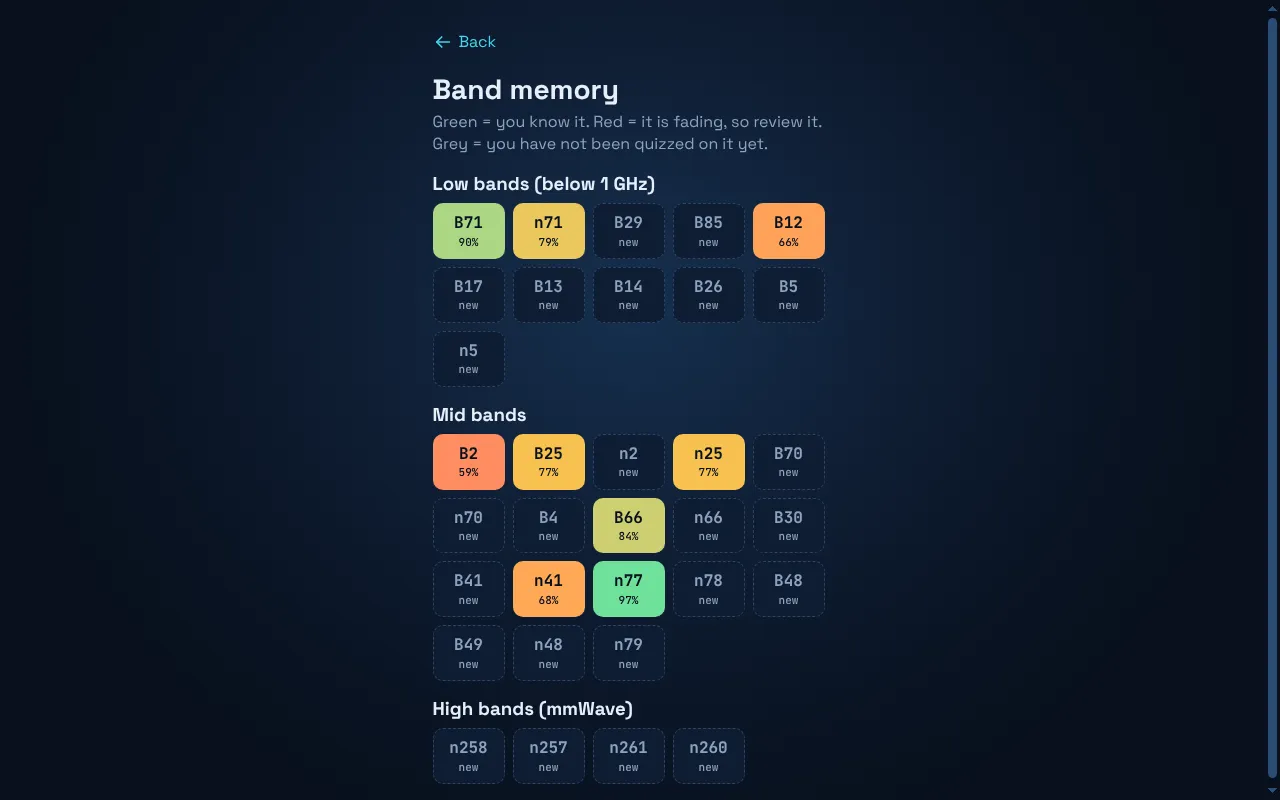
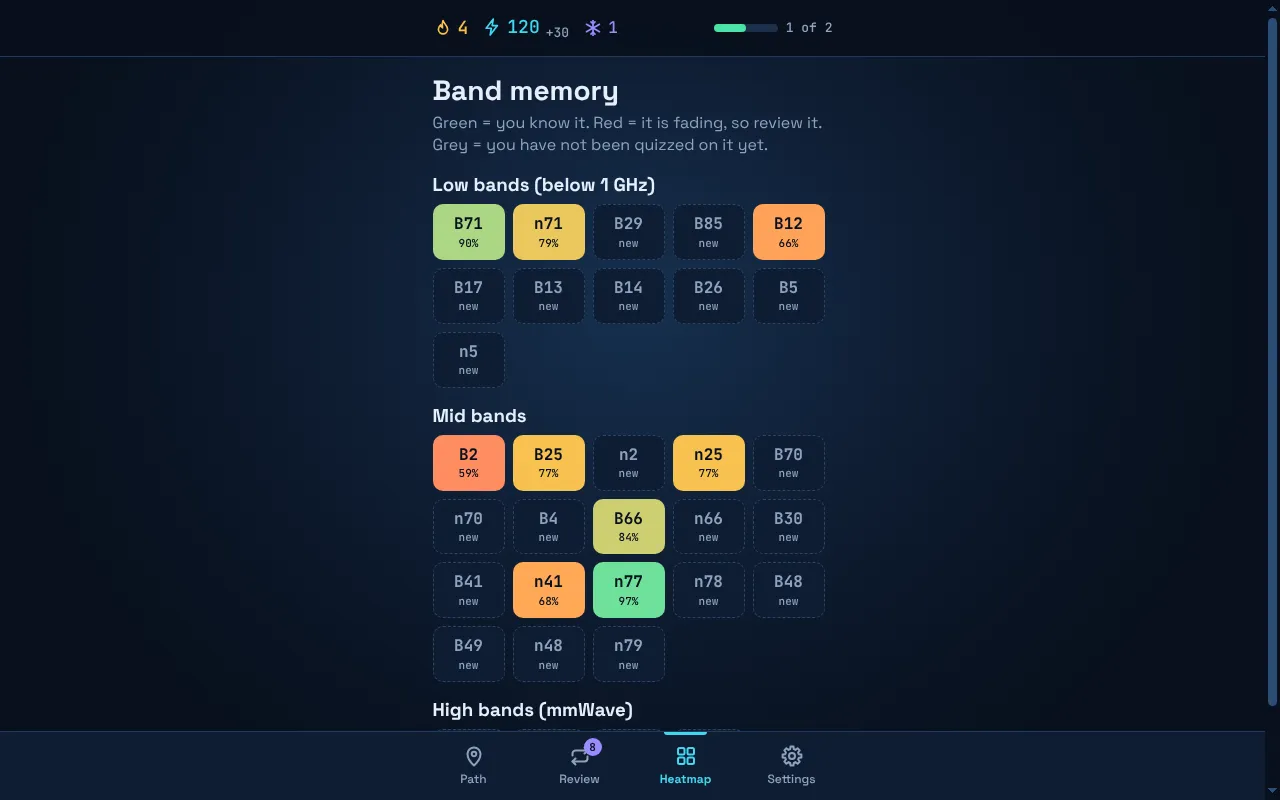
T59 R04: fix sideways scrollbar flash and lesson bar shrink seen in the flip book; top bar on one line; gallery with Review tab
Claude-Session: https://claude.ai/code/session_0192jN2ScSn8PbLcYwXZPres

diff --git a/app/src/main.tsx b/app/src/main.tsx
@@ -68,10 +68,12 @@ function App() {
 
   // The top bar: streak, XP (and today's XP), streak freezes, and the daily goal as a small bar. R07 gives it its full look.
   const top = <>
-    <div data-testid="hud" style={{ display: 'flex', alignItems: 'center', gap: 14 }}>
+    <div data-testid="hud" style={{ display: 'flex', alignItems: 'center', gap: 14, whiteSpace: 'nowrap' }}>
       <StatChip data-testid="streak" icon="flame" tone="streak" title="Streak (days in a row)">{liveStreak(s.game, now)}</StatChip>
-      <StatChip data-testid="xp-total" icon="bolt" tone="signal" title="XP in total">{s.game.xp} XP</StatChip>
-      <span data-testid="xp-today" title="XP earned today" style={{ ...mono, fontSize: 13, color: c.textMuted }}>+{s.game.xpToday && s.game.xpDay === dayKey(now) ? s.game.xpToday : 0} today</span>
+      <span style={{ display: 'inline-flex', alignItems: 'baseline', gap: 6 }}>
+        <StatChip data-testid="xp-total" icon="bolt" tone="signal" title="XP in total">{s.game.xp}<span style={hidden}> XP</span></StatChip>
+        <span data-testid="xp-today" title="XP earned today" style={{ ...mono, fontSize: 13, color: c.textMuted }}>+{s.game.xpToday && s.game.xpDay === dayKey(now) ? s.game.xpToday : 0}<span style={hidden}> XP today</span></span>
+      </span>
       {s.game.freezes > 0 && <StatChip data-testid="freezes" icon="freeze" tone="review" iconLabel="Streak freezes:" title="Streak freezes" style={{ fontSize: 16 }}>{s.game.freezes}</StatChip>}
     </div>
     <div data-testid="goal" style={{ marginLeft: 'auto', display: 'flex', alignItems: 'center', gap: 8 }}>

diff --git a/app/src/LessonPlayer.tsx b/app/src/LessonPlayer.tsx
@@ -174,11 +174,12 @@ export function LessonPlayer({ lesson, onFinish, onQuit }: { lesson: Lesson; onF
       <div style={{ display: 'flex', alignItems: 'center', gap: 10 }}>
         <button data-testid="quit" onClick={onQuit} aria-label="Leave the lesson" aria-keyshortcuts="Escape" title="Leave the lesson (Esc)" style={{ width: 44, height: 44, display: 'grid', placeItems: 'center', border: 0, borderRadius: '50%', background: 'none', color: c.textMuted, cursor: 'pointer', flexShrink: 0 }}><Icon name="close" /></button>
         <div style={{ flex: 1, height: 10, background: c.track, borderRadius: 5, overflow: 'hidden' }}>
-          <motion.div style={{ height: '100%', background: c.signal }} animate={{ width: `${(Math.min(run.index, run.queue.length) / run.queue.length) * 100}%` }} />
+          <motion.div style={{ height: '100%', background: c.signal }} initial={false} animate={{ width: `${(Math.min(run.index, run.queue.length) / run.queue.length) * 100}%` }} />
         </div>
       </div>
       <Mascot happy={!res || res.ok} />
-      <AnimatePresence mode="wait">
+      {/* initial={false}: the first question is already in place while the whole lesson rises (R04); later ones slide in. */}
+      <AnimatePresence mode="wait" initial={false}>
         {!done && it ? (
           <motion.div key={`${run.index}-${it.id}`} initial={{ x: 60, opacity: 0 }} animate={{ x: 0, opacity: 1 }} exit={{ x: -60, opacity: 0 }}>
             {it.kind === 'learn' ? (

diff --git a/app/src/ui/AppShell.tsx b/app/src/ui/AppShell.tsx
@@ -26,7 +26,8 @@ export function AppShell({ tab, onTab, top, badges = {}, children }:
         background: `color-mix(in srgb, ${c.bg} 90%, transparent)` }}>
         <div style={{ maxWidth: COLUMN, minHeight: 56, margin: '0 auto', padding: '6px 20px', boxSizing: 'border-box', display: 'flex', alignItems: 'center', gap: 14 }}>{top}</div>
       </header>
-      <main style={{ paddingBottom: TAB_BAR_HEIGHT + 16 }}>{children}</main>
+      {/* overflowX clip: a screen gliding in from the side must not flash a sideways scrollbar (seen in R04's flip book). */}
+      <main style={{ paddingBottom: TAB_BAR_HEIGHT + 16, overflowX: 'clip' }}>{children}</main>
       <nav aria-label="Main" data-testid="tab-bar" style={{ position: 'fixed', left: 0, right: 0, bottom: 0, zIndex: 10, height: TAB_BAR_HEIGHT,
         background: c.surface, borderTop: `1px solid ${c.border}` }}>
         <div style={{ maxWidth: COLUMN, height: '100%', margin: '0 auto', padding: '0 8px', boxSizing: 'border-box', display: 'flex' }}>

diff --git a/app/src/ui/Pill.tsx b/app/src/ui/Pill.tsx
@@ -21,7 +21,7 @@ export function Pill({ tone = 'quiet', icon, children, style, ...rest }: { tone?
 // A number with its icon, like the streak flame or XP bolt in the top bar. Numbers use the "code" font.
 export function StatChip({ icon, tone, iconLabel, children, style, ...rest }: { icon: IconName; tone: TokenKey; iconLabel?: string; children: ReactNode; style?: CSSProperties; 'data-testid'?: string; title?: string }) {
   return (
-    <span {...rest} style={{ display: 'inline-flex', alignItems: 'center', gap: 5, fontSize: 18, ...mono, color: c[tone], ...style }}>
+    <span {...rest} style={{ display: 'inline-flex', alignItems: 'center', gap: 5, fontSize: 18, ...mono, whiteSpace: 'nowrap', color: c[tone], ...style }}>
       <Icon name={icon} size={20} label={iconLabel} />{children}
     </span>
   );

diff --git a/app/src/HeatMapScreen.tsx b/app/src/HeatMapScreen.tsx
@@ -10,7 +10,7 @@ const TITLES: Record<Group, string> = { low: 'Low bands (below 1 GHz)', mid: 'Mi
 // R04: it's a tab now, so it has no back button (the Path tab, or Esc, goes back).
 export function HeatMap({ cells }: { cells: Cell[] }) {
   return (
-    <div data-testid="heatmap" style={{ maxWidth: COLUMN, margin: '0 auto', padding: '8px 20px 20px', boxSizing: 'border-box' }}>
+    <div data-testid="heatmap" style={{ maxWidth: COLUMN, margin: '0 auto', padding: '16px 20px 20px', boxSizing: 'border-box' }}>
       <h1 style={{ margin: '0 0 4px' }}>Band memory</h1>
       <p style={{ margin: '0 0 12px', color: c.textMuted }}>Green = you know it. Red = it is fading, so review it. Grey = you have not been quizzed on it yet.</p>
       {(['low', 'mid', 'high'] as Group[]).map(g => {

diff --git a/app/src/ReviewScreen.tsx b/app/src/ReviewScreen.tsx
@@ -6,7 +6,7 @@ import { Card, Button, Pill } from './ui';
 // R13 gives this screen its full "drive test" look; for now it's built from the building blocks.
 export function ReviewScreen({ due, onStart }: { due: number; onStart: () => void }) {
   return (
-    <div data-testid="review-screen" style={{ maxWidth: COLUMN, margin: '0 auto', padding: '8px 20px 32px', boxSizing: 'border-box' }}>
+    <div data-testid="review-screen" style={{ maxWidth: COLUMN, margin: '0 auto', padding: '16px 20px 32px', boxSizing: 'border-box' }}>
       <h1 style={{ margin: '0 0 12px' }}>Daily review</h1>
       <Card raised style={{ marginBottom: 16 }}>
         <div style={{ display: 'flex', alignItems: 'center', gap: 12, marginBottom: 16 }}>

diff --git a/app/src/SettingsScreen.tsx b/app/src/SettingsScreen.tsx
@@ -28,7 +28,7 @@ export function SettingsScreen({ settings, onChange }: { settings: Settings; onC
   const files = hasFileAccess();
   const set = (patch: Partial<Settings>) => onChange({ ...settings, ...patch });
   return (
-    <div data-testid="settings" style={{ maxWidth: COLUMN, margin: '0 auto', padding: '8px 20px 32px', boxSizing: 'border-box' }}>
+    <div data-testid="settings" style={{ maxWidth: COLUMN, margin: '0 auto', padding: '16px 20px 32px', boxSizing: 'border-box' }}>
       <h1 style={{ margin: '0 0 12px' }}>Settings</h1>
 
       <Card title="Sound and movement" style={{ marginBottom: 16, paddingBottom: 6 }}>
